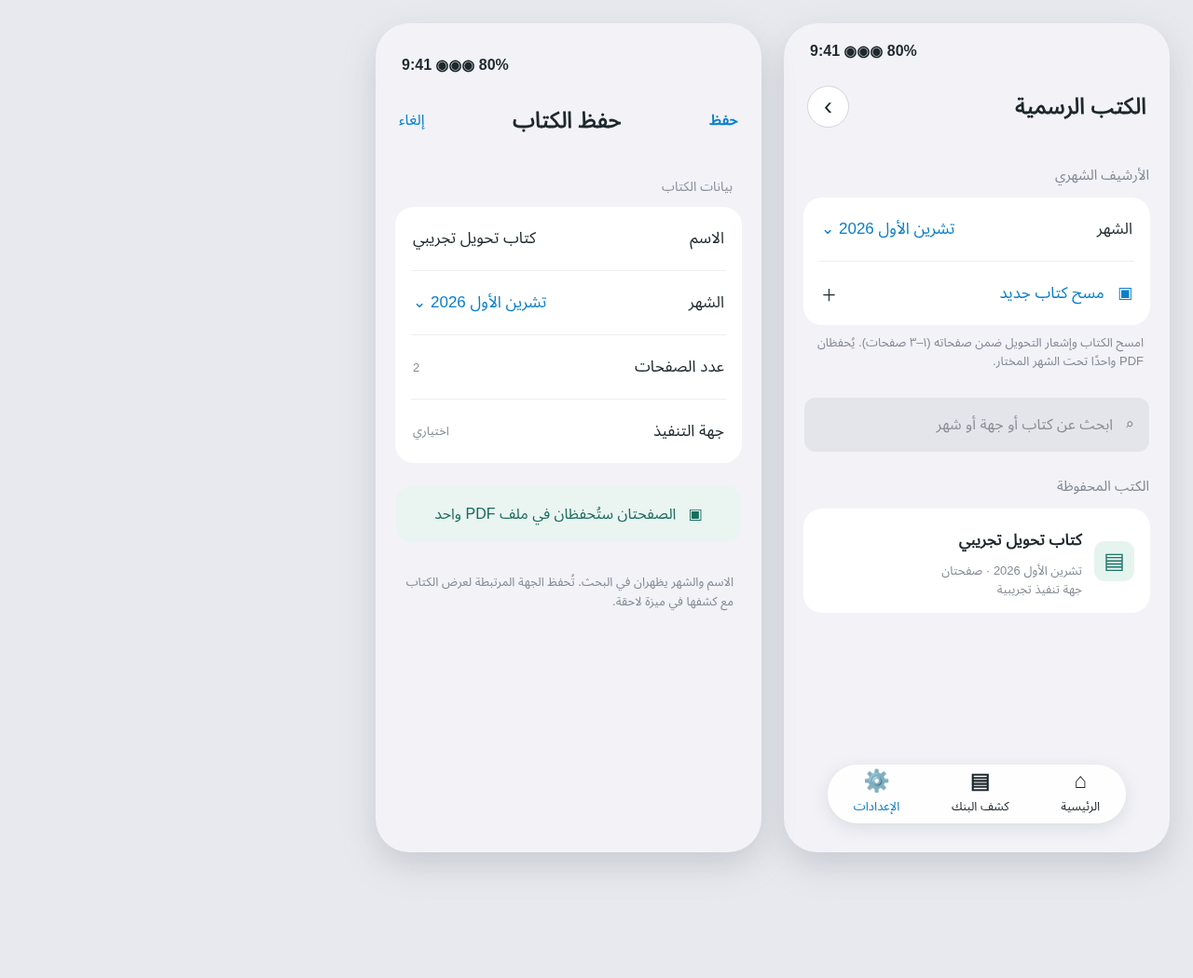
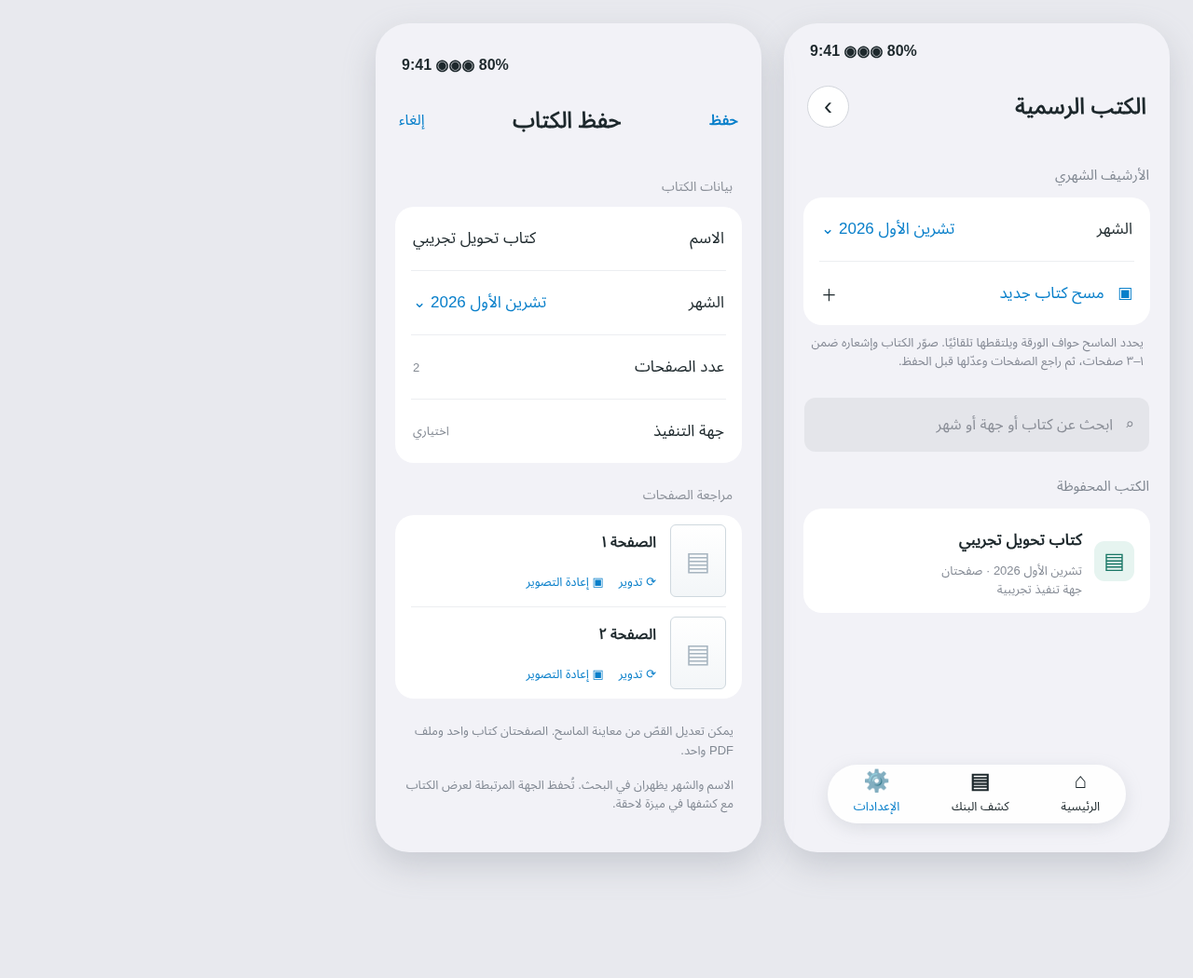
Review and retake automatically scanned document pages
Use the native document scanner's automatic edge detection and capture. Add per-page review with rotation and single-page retake before creating the combined PDF. Update the UI mock and project guidance.

diff --git a/docs/design/official-books.html b/docs/design/official-books.html
@@ -1,3 +1,3 @@
 <!doctype html><html lang="ar" dir="rtl"><meta charset="utf-8"><style>
-*{box-sizing:border-box}body{margin:0;background:#e8e9ee;font-family:Arial,sans-serif;color:#1d282c}.sheet{display:flex;gap:24px;padding:25px;direction:rtl}.phone{width:414px;height:890px;background:#f2f2f7;border-radius:36px;overflow:hidden;position:relative;box-shadow:0 14px 35px #89909b55}.status{height:52px;padding:20px 28px 0;direction:ltr;font-weight:bold}.header{height:74px;display:flex;align-items:center;justify-content:space-between;padding:0 25px}.header strong{font-size:24px}.circle{border:1px solid #d3d6dc;background:white;width:45px;height:45px;border-radius:50%;display:grid;place-items:center;font-size:27px}.section{margin:21px 22px 8px;font-size:15px;color:#818892}.group{margin:0 21px;background:#fff;border-radius:20px;padding:0 17px}.row{padding:16px 2px;border-bottom:1px solid #eceef1;display:flex;justify-content:space-between;align-items:center;font-size:17px}.row:last-child{border:0}.blue{color:#087fca}.sub{color:#858b94;font-size:13px}.hint{font-size:13px;line-height:1.5;color:#848994;padding:9px 28px}.search{background:#e4e5ea;border-radius:12px;color:#898d96;padding:12px 16px;margin:21px 22px 0;font-size:16px}.doc{display:flex;gap:13px;align-items:center;padding:16px 0;border-bottom:1px solid #eceef1}.doc:last-child{border:0}.doc-icon{width:43px;height:43px;border-radius:11px;display:grid;place-items:center;background:#e6f4f0;color:#197665;font-size:24px}.doc-title{font-size:17px;font-weight:bold;margin-bottom:5px}.doc-meta{font-size:13px;color:#848a94;line-height:1.5}.sheetnav{position:absolute;bottom:31px;left:47px;right:47px;height:63px;border-radius:33px;background:#ffffffdf;box-shadow:0 5px 17px #9fa4ad44;display:flex;align-items:center;justify-content:space-around;font-size:13px}.sheetnav span{text-align:center}.sheetnav b{display:block;font-size:23px}.editor{padding:15px 0}.editor .header{margin-bottom:15px}.editor .group{margin-bottom:17px}.save{font-weight:bold;color:#087fca}.label{font-size:14px;color:#8b9099;margin:20px 31px 7px}.foot{font-size:13px;color:#838a94;line-height:1.6;padding:8px 30px}.pages{background:#eaf4f1;color:#176d5c;padding:13px 16px;border-radius:16px;margin:25px 22px;text-align:center}
-</style><div class="sheet"><div class="phone"><div class="status">9:41 ◉◉◉ 80%</div><div class="header"><strong>الكتب الرسمية</strong><div class="circle">›</div></div><div class="section">الأرشيف الشهري</div><div class="group"><div class="row"><span>الشهر</span><span class="blue">تشرين الأول 2026 ⌄</span></div><div class="row"><span class="blue">▣ &nbsp; مسح كتاب جديد</span><span>＋</span></div></div><div class="hint">امسح الكتاب وإشعار التحويل ضمن صفحاته (١–٣ صفحات). يُحفظان PDF واحدًا تحت الشهر المختار.</div><div class="search">⌕ &nbsp; ابحث عن كتاب أو جهة أو شهر</div><div class="section">الكتب المحفوظة</div><div class="group"><div class="doc"><div class="doc-icon">▤</div><div><div class="doc-title">كتاب تحويل تجريبي</div><div class="doc-meta">تشرين الأول 2026 · صفحتان<br>جهة تنفيذ تجريبية</div></div></div></div><div class="sheetnav"><span><b>⌂</b>الرئيسية</span><span><b>▤</b>كشف البنك</span><span style="color:#087fca"><b>⚙</b>الإعدادات</span></div></div><div class="phone editor"><div class="status">9:41 ◉◉◉ 80%</div><div class="header"><span class="save">حفظ</span><strong>حفظ الكتاب</strong><span class="blue">إلغاء</span></div><div class="label">بيانات الكتاب</div><div class="group"><div class="row"><span>الاسم</span><span>كتاب تحويل تجريبي</span></div><div class="row"><span>الشهر</span><span class="blue">تشرين الأول 2026 ⌄</span></div><div class="row"><span>عدد الصفحات</span><span class="sub">2</span></div><div class="row"><span>جهة التنفيذ</span><span class="sub">اختياري</span></div></div><div class="pages">▣ &nbsp; الصفحتان ستُحفظان في ملف PDF واحد</div><div class="foot">الاسم والشهر يظهران في البحث. تُحفظ الجهة المرتبطة لعرض الكتاب مع كشفها في ميزة لاحقة.</div></div></div></html>
+*{box-sizing:border-box}body{margin:0;background:#e8e9ee;font-family:Arial,sans-serif;color:#1d282c}.sheet{display:flex;gap:24px;padding:25px;direction:rtl}.phone{width:414px;height:890px;background:#f2f2f7;border-radius:36px;overflow:hidden;position:relative;box-shadow:0 14px 35px #89909b55}.status{height:52px;padding:20px 28px 0;direction:ltr;font-weight:bold}.header{height:74px;display:flex;align-items:center;justify-content:space-between;padding:0 25px}.header strong{font-size:24px}.circle{border:1px solid #d3d6dc;background:white;width:45px;height:45px;border-radius:50%;display:grid;place-items:center;font-size:27px}.section{margin:21px 22px 8px;font-size:15px;color:#818892}.group{margin:0 21px;background:#fff;border-radius:20px;padding:0 17px}.row{padding:16px 2px;border-bottom:1px solid #eceef1;display:flex;justify-content:space-between;align-items:center;font-size:17px}.row:last-child{border:0}.blue{color:#087fca}.sub{color:#858b94;font-size:13px}.hint{font-size:13px;line-height:1.5;color:#848994;padding:9px 28px}.search{background:#e4e5ea;border-radius:12px;color:#898d96;padding:12px 16px;margin:21px 22px 0;font-size:16px}.doc{display:flex;gap:13px;align-items:center;padding:16px 0;border-bottom:1px solid #eceef1}.doc:last-child{border:0}.doc-icon{width:43px;height:43px;border-radius:11px;display:grid;place-items:center;background:#e6f4f0;color:#197665;font-size:24px}.doc-title{font-size:17px;font-weight:bold;margin-bottom:5px}.doc-meta{font-size:13px;color:#848a94;line-height:1.5}.sheetnav{position:absolute;bottom:31px;left:47px;right:47px;height:63px;border-radius:33px;background:#ffffffdf;box-shadow:0 5px 17px #9fa4ad44;display:flex;align-items:center;justify-content:space-around;font-size:13px}.sheetnav span{text-align:center}.sheetnav b{display:block;font-size:23px}.editor{padding:15px 0}.editor .header{margin-bottom:15px}.editor .group{margin-bottom:17px}.save{font-weight:bold;color:#087fca}.label{font-size:14px;color:#8b9099;margin:20px 31px 7px}.foot{font-size:13px;color:#838a94;line-height:1.6;padding:8px 30px}.review-doc{width:60px;height:78px;border:1px solid #cfd8de;border-radius:6px;background:linear-gradient(#fff,#f3f6f8);display:grid;place-items:center;color:#a7b5c0;font-size:28px}.review-actions{display:flex;gap:16px;color:#087fca;font-size:13px}.review-row{display:flex;gap:15px;align-items:center;padding:10px 0;border-bottom:1px solid #eceef1}.review-row:last-child{border:0}.review-title{font-weight:bold;margin-bottom:12px}.pages{background:#eaf4f1;color:#176d5c;padding:13px 16px;border-radius:16px;margin:25px 22px;text-align:center}
+</style><div class="sheet"><div class="phone"><div class="status">9:41 ◉◉◉ 80%</div><div class="header"><strong>الكتب الرسمية</strong><div class="circle">›</div></div><div class="section">الأرشيف الشهري</div><div class="group"><div class="row"><span>الشهر</span><span class="blue">تشرين الأول 2026 ⌄</span></div><div class="row"><span class="blue">▣ &nbsp; مسح كتاب جديد</span><span>＋</span></div></div><div class="hint">يحدد الماسح حواف الورقة ويلتقطها تلقائيًا. صوّر الكتاب وإشعاره ضمن ١–٣ صفحات، ثم راجع الصفحات وعدّلها قبل الحفظ.</div><div class="search">⌕ &nbsp; ابحث عن كتاب أو جهة أو شهر</div><div class="section">الكتب المحفوظة</div><div class="group"><div class="doc"><div class="doc-icon">▤</div><div><div class="doc-title">كتاب تحويل تجريبي</div><div class="doc-meta">تشرين الأول 2026 · صفحتان<br>جهة تنفيذ تجريبية</div></div></div></div><div class="sheetnav"><span><b>⌂</b>الرئيسية</span><span><b>▤</b>كشف البنك</span><span style="color:#087fca"><b>⚙</b>الإعدادات</span></div></div><div class="phone editor"><div class="status">9:41 ◉◉◉ 80%</div><div class="header"><span class="save">حفظ</span><strong>حفظ الكتاب</strong><span class="blue">إلغاء</span></div><div class="label">بيانات الكتاب</div><div class="group"><div class="row"><span>الاسم</span><span>كتاب تحويل تجريبي</span></div><div class="row"><span>الشهر</span><span class="blue">تشرين الأول 2026 ⌄</span></div><div class="row"><span>عدد الصفحات</span><span class="sub">2</span></div><div class="row"><span>جهة التنفيذ</span><span class="sub">اختياري</span></div></div><div class="label">مراجعة الصفحات</div><div class="group"><div class="review-row"><div class="review-doc">▤</div><div><div class="review-title">الصفحة ١</div><div class="review-actions"><span>⟳ تدوير</span><span>▣ إعادة التصوير</span></div></div></div><div class="review-row"><div class="review-doc">▤</div><div><div class="review-title">الصفحة ٢</div><div class="review-actions"><span>⟳ تدوير</span><span>▣ إعادة التصوير</span></div></div></div></div><div class="foot">يمكن تعديل القصّ من معاينة الماسح. الصفحتان كتاب واحد وملف PDF واحد.</div><div class="foot">الاسم والشهر يظهران في البحث. تُحفظ الجهة المرتبطة لعرض الكتاب مع كشفها في ميزة لاحقة.</div></div></div></html>

diff --git a/SalaryApp/OfficialBooksView.swift b/SalaryApp/OfficialBooksView.swift
@@ -54,8 +54,8 @@ struct OfficialBooksView: View {
                 .disabled(monthNames.isEmpty)
                 .accessibilityIdentifier("scanOfficialBook")
             } footer: {
-                Text(tr("امسح الكتاب وإشعار التحويل ضمن صفحاته (١–٣ صفحات). يُحفظان PDF واحدًا تحت الشهر المختار.",
-                        "Scan the letter and its transfer notice as pages of one PDF (1–3 pages) under the selected month."))
+                Text(tr("يحدد الماسح حواف الورقة ويلتقطها تلقائيًا. صوّر الكتاب وإشعاره ضمن ١–٣ صفحات، ثم راجع الصفحات وعدّلها قبل الحفظ.",
+                        "The scanner detects edges and captures automatically. Scan the letter and its notice as 1–3 pages, then review and edit before saving."))
             }
 
             Section(tr("الكتب المحفوظة", "Saved documents")) {
@@ -142,20 +142,23 @@ struct OfficialBooksView: View {
 /// تأكيد اسم الكتاب وشهره بعد المسح، أو تعديل الاسم والجهة دون تغيير الملف.
 private struct OfficialBookEditor: View {
     let months: [String]
-    let images: [Data]?
     let existing: OfficialBook?
+    @State private var images: [Data]?
     @State private var title: String
     @State private var month: String
     @State private var entity: String
     @State private var saving = false
+    @State private var rotatingPage: Int?
+    @State private var retakePage: Int?
+    @State private var showingRetake = false
     @State private var error: String?
     @Environment(\.dismiss) private var dismiss
     @State private var store = OfficialBookStore.shared
 
     init(months: [String], initialMonth: String, images: [Data]?, existing: OfficialBook?) {
         self.months = months
-        self.images = images
         self.existing = existing
+        _images = State(initialValue: images)
         _title = State(initialValue: existing?.title ?? "")
         _month = State(initialValue: initialMonth)
         _entity = State(initialValue: existing?.entity ?? "")
@@ -177,6 +180,43 @@ private struct OfficialBookEditor: View {
                     }
                     TextField(tr("جهة التنفيذ المرتبطة (اختياري)", "Related entity (optional)"), text: $entity)
                 }
+                if let images {
+                    Section {
+                        ForEach(images.indices, id: \.self) { index in
+                            HStack(spacing: 12) {
+                                if let image = UIImage(data: images[index]) {
+                                    Image(uiImage: image)
+                                        .resizable().scaledToFit()
+                                        .frame(width: 72, height: 92)
+                                        .background(Color(.secondarySystemBackground), in: RoundedRectangle(cornerRadius: 8))
+                                        .accessibilityHidden(true)
+                                }
+                                VStack(alignment: .leading, spacing: 10) {
+                                    Text(tr("الصفحة \(Num.format(index + 1))", "Page \(index + 1)"))
+                                        .font(.subheadline.weight(.semibold))
+                                    HStack(spacing: 18) {
+                                        Button(tr("تدوير", "Rotate"), systemImage: "rotate.right") { rotate(index) }
+                                            .disabled(rotatingPage != nil || saving)
+                                        Button(tr("إعادة التصوير", "Retake"), systemImage: "camera") {
+                                            retakePage = index
+                                            showingRetake = true
+                                        }
+                                        .disabled(rotatingPage != nil || saving)
+                                    }
+                                    .font(.caption)
+                                    .buttonStyle(.borderless)
+                                }
+                                Spacer(minLength: 0)
+                            }
+                            .padding(.vertical, 5)
+                        }
+                    } header: {
+                        Text(tr("مراجعة الصفحات", "Review pages"))
+                    } footer: {
+                        Text(tr("يمكن تعديل القصّ من معاينة الماسح، أو تدوير أي صفحة وإعادة تصويرها هنا. الإشعار يبقى صفحة من الكتاب نفسه.",
+                                "Adjust cropping in the scanner preview, or rotate and retake a page here. The notice stays a page of the same document."))
+                    }
+                }
                 Section {
                     Text(tr("الاسم والشهر يظهران في البحث. الجهة المرتبطة تُحفظ لربط الكتاب بكشفها لاحقًا.",
                             "The name and month appear in search. The related entity is saved for future report links."))
@@ -191,13 +231,45 @@ private struct OfficialBookEditor: View {
                 }
                 ToolbarItem(placement: .confirmationAction) {
                     Button(tr("حفظ", "Save")) { save() }
-                        .disabled(saving || title.trimmingCharacters(in: .whitespacesAndNewlines).isEmpty || month.isEmpty)
+                        .disabled(saving || rotatingPage != nil || title.trimmingCharacters(in: .whitespacesAndNewlines).isEmpty || month.isEmpty)
                 }
+            }
+            .sheet(isPresented: $showingRetake) {
+                OfficialBookScanner(maxPages: 1, onComplete: { replacement in
+                    showingRetake = false
+                    if let index = retakePage, let page = replacement.first, images?.indices.contains(index) == true {
+                        images?[index] = page
+                    }
+                    retakePage = nil
+                }, onFailure: { message in
+                    showingRetake = false
+                    retakePage = nil
+                    error = message
+                }, onCancel: {
+                    showingRetake = false
+                    retakePage = nil
+                })
             }
             .alert(tr("تعذّر الحفظ", "Could not save"), isPresented: Binding(
                 get: { error != nil }, set: { if !$0 { error = nil } })) {
                 Button(tr("حسناً", "OK"), role: .cancel) {}
             } message: { Text(error ?? "") }
+        }
+    }
+
+    private func rotate(_ index: Int) {
+        guard let data = images?[index] else { return }
+        rotatingPage = index
+        Task {
+            do {
+                let rotated = try await Task.detached(priority: .userInitiated) {
+                    try OfficialBookImage.rotateClockwise(data)
+                }.value
+                images?[index] = rotated
+            } catch {
+                self.error = error.localizedDescription
+            }
+            rotatingPage = nil
         }
     }
 

diff --git a/SalaryApp/OfficialBooks.swift b/SalaryApp/OfficialBooks.swift
@@ -2,6 +2,7 @@ import SwiftUI
 import VisionKit
 import ImageIO
 import CoreGraphics
+import UIKit
 
 /// بيانات الكتاب فقط؛ الصفحات تبقى ملف PDF مستقلًا ولا تُحمَّل أثناء البحث.
 nonisolated struct OfficialBook: Codable, Sendable, Identifiable, Hashable {
@@ -138,6 +139,23 @@ nonisolated enum OfficialBookPDF {
     }
 }
 
+/// تدوير صفحة مصوّرة قبل تجميع PDF، مع الإبقاء على الصفحات الأخرى كما هي.
+nonisolated enum OfficialBookImage {
+    static func rotateClockwise(_ data: Data) throws -> Data {
+        guard let image = UIImage(data: data) else { throw OfficialBookError.damagedPDF }
+        let size = CGSize(width: image.size.height, height: image.size.width)
+        let format = UIGraphicsImageRendererFormat()
+        format.scale = 1
+        let rotated = UIGraphicsImageRenderer(size: size, format: format).image { renderer in
+            renderer.cgContext.translateBy(x: size.width, y: 0)
+            renderer.cgContext.rotate(by: .pi / 2)
+            image.draw(in: CGRect(origin: .zero, size: image.size))
+        }
+        guard let result = rotated.jpegData(compressionQuality: 0.86) else { throw OfficialBookError.damagedPDF }
+        return result
+    }
+}
+
 @MainActor @Observable
 final class OfficialBookStore {
     static let shared = OfficialBookStore()
@@ -235,11 +253,12 @@ final class OfficialBookStore {
 
 /// ماسح iOS الأصلي: يحسن حواف الورقة ويعيد الصور دون طلب الوصول إلى الصور الشخصية.
 struct OfficialBookScanner: UIViewControllerRepresentable {
+    var maxPages = 3
     let onComplete: ([Data]) -> Void
     let onFailure: (String) -> Void
     let onCancel: () -> Void
 
-    func makeCoordinator() -> Coordinator { Coordinator(onComplete: onComplete, onFailure: onFailure, onCancel: onCancel) }
+    func makeCoordinator() -> Coordinator { Coordinator(maxPages: maxPages, onComplete: onComplete, onFailure: onFailure, onCancel: onCancel) }
     func makeUIViewController(context: Context) -> VNDocumentCameraViewController {
         let controller = VNDocumentCameraViewController()
         controller.delegate = context.coordinator
@@ -248,15 +267,19 @@ struct OfficialBookScanner: UIViewControllerRepresentable {
     func updateUIViewController(_ controller: VNDocumentCameraViewController, context: Context) {}
 
     final class Coordinator: NSObject, VNDocumentCameraViewControllerDelegate {
+        let maxPages: Int
         let onComplete: ([Data]) -> Void
         let onFailure: (String) -> Void
         let onCancel: () -> Void
-        init(onComplete: @escaping ([Data]) -> Void, onFailure: @escaping (String) -> Void, onCancel: @escaping () -> Void) {
-            self.onComplete = onComplete; self.onFailure = onFailure; self.onCancel = onCancel
+        init(maxPages: Int, onComplete: @escaping ([Data]) -> Void, onFailure: @escaping (String) -> Void, onCancel: @escaping () -> Void) {
+            self.maxPages = maxPages; self.onComplete = onComplete; self.onFailure = onFailure; self.onCancel = onCancel
         }
         func documentCameraViewController(_ controller: VNDocumentCameraViewController, didFinishWith scan: VNDocumentCameraScan) {
-            guard (1...3).contains(scan.pageCount) else {
-                controller.dismiss(animated: true) { self.onFailure(OfficialBookError.invalidPages.localizedDescription) }
+            guard (1...maxPages).contains(scan.pageCount) else {
+                let message = maxPages == 1
+                    ? tr("أعد تصوير صفحة واحدة فقط.", "Retake one page only.")
+                    : OfficialBookError.invalidPages.localizedDescription
+                controller.dismiss(animated: true) { self.onFailure(message) }
                 return
             }
             var images: [Data] = []

diff --git a/AGENTS.md b/AGENTS.md
@@ -148,7 +148,7 @@
 - **زر التقويم الزجاجي الدائري**: الاسم الذي اعتمده المالك لزر اختيار الشهر المختصر (أيقونة تقويم داخل زر زجاجي دائري). يُستخدم في الرئيسية، التقارير، كشف البنك، قسيمة الراتب، واختيار شهري التدقيق؛ يبقى اسم الشهر المختار ظاهراً في محتوى الصفحة أو قرب زر المقارنة. قائمة الرئيسية تعرض الأشهر فقط: أحدث شهر تلقائياً، واختيار شهر واحد بضغطة واحدة؛ لا اختيار متعدد ولا أمر حذف فيها. حذف بيانات الأشهر من الإعدادات ← الأشهر المحفوظة فقط.
 - **حسابات جهات التنفيذ**: ملف Excel فيه «جهة التنفيذ»، «رقم الايبان»، «الفرع»، «SWIFT» يتعرف عليه الاستيراد الموحّد. يُضاف الجديد ويُحدّث الموجود بالاسم الموحّد ولا تُحذف الجهات الغائبة في الملف التالي. IBAN غير الصالح يُرفض ويبقى الحساب السابق؛ في مراجعة الاستيراد يظهر الرقم المدخل بالأحمر مع موضع الخلية وسبب الخلل وحلّه، وتتكرر التفاصيل في نتيجة الاستيراد. الإدارة في الإعدادات ← البيانات المحفوظة؛ ويظهر الحساب المطابق في تفاصيل جهة التقرير. تدخل الحسابات في النسخة الاحتياطية.
 - **نافذة المشاركة**: تقرير الراتب يخص شهر القسيمة المعروضة فقط، بلا شريط لاختيار الأشهر داخل النافذة.
-- **الكتب الرسمية وإشعارات التحويل**: الإشعار صفحة ضمن الكتاب نفسه وليس نوعًا مستقلًا. الماسح الأصلي يصور ١–٣ صفحات في PDF واحد؛ يُسمّى ويُربط بالشهر وبجهة تنفيذ اختيارية. الأرشيف في الإعدادات ← البيانات المحفوظة، ويظهر بالبحث العام بالاسم/الشهر/الجهة؛ المعاينة والمشاركة من PDF نفسه. ملفات PDF والفهرس تدخل النسخة الاحتياطية (الصيغة ٣) وتُفحص قبل الاسترجاع. لا ترفع صور كتب حقيقية إلى المستودع.
+- **الكتب الرسمية وإشعارات التحويل**: الإشعار صفحة ضمن الكتاب نفسه وليس نوعًا مستقلًا. الماسح الأصلي يحدد حواف الورقة ويلتقطها تلقائيًا؛ يعرض مراجعة لتعديل القصّ، ثم يتيح التطبيق تدوير أي صفحة أو إعادة تصويرها قبل الحفظ. يجمع ١–٣ صفحات في PDF واحد؛ يُسمّى ويُربط بالشهر وبجهة تنفيذ اختيارية. الأرشيف في الإعدادات ← البيانات المحفوظة، ويظهر بالبحث العام بالاسم/الشهر/الجهة؛ المعاينة والمشاركة من PDF نفسه. ملفات PDF والفهرس تدخل النسخة الاحتياطية (الصيغة ٣) وتُفحص قبل الاسترجاع. لا ترفع صور كتب حقيقية إلى المستودع.
 - البحث يتجاهل علامات الترقيم (الإملاء الصوتي يضيفها) عبر `ArabicText.cleanQuery`.
 
 ## ٨. النسخ الاحتياطي
